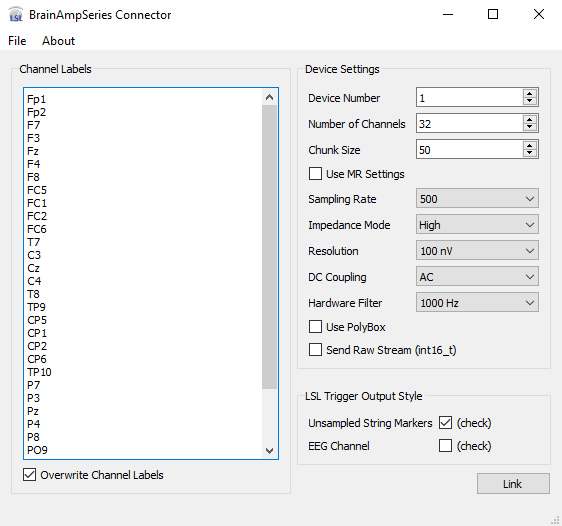
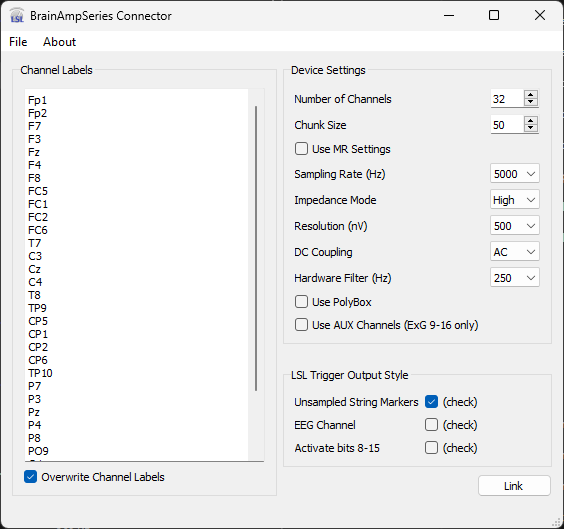
updating readme

diff --git a/README.md b/README.md
@@ -62,9 +62,13 @@ This is an optional lowpass filter executed at the hardware level. For MR record
 
 If you use the PolyBox, check the according box and prepend 8 channel labels at the beginning of the channel list (even if you only use a subset of them). Note that the PolyBox is not the same as the EMG box or other accessories.
 
-### Send Raw Stream (int16_t)
+### Use PolyBox
 
-The hardware itself sends raw data that is encoded as 16-bit integers. These values must be converted into floating point values corresponding to the actually measured microvoltages at the electrodes. If checked, the LSL stream outlet will send the BrainAmp's raw data. If not, it will convert the data appropriately.
+If checked, the first 8 channels will hold signals from the PolyBox. Make sure to increase the number of channels and change channel labels accordingly.
+
+### Use AUX Channels (ExG 9-16 only)
+
+When using BrainAmp ExG, if this option is checked, channels 9-16 will be recoreded as AUX channels. Otherwise, all 16 sensors will be bipolar.
 
 ## LSL Trigger Output Style
 
@@ -79,6 +83,10 @@ If 'Unsampled String Markers' is checked, the app will create a Marker stream on
 ### EEG Channel
 
 If this box is checked, an extra channel will be added to the EEG stream corresponding to the device triggers in. Rather than unsampled markers, these channels will output -1 if no trigger is available, else the value corresponding to the value at the trigger input when it changes value.
+
+### Activate bits 8-15
+
+Check this if using 16 bit triggering.
 
 ### Further Information
 
